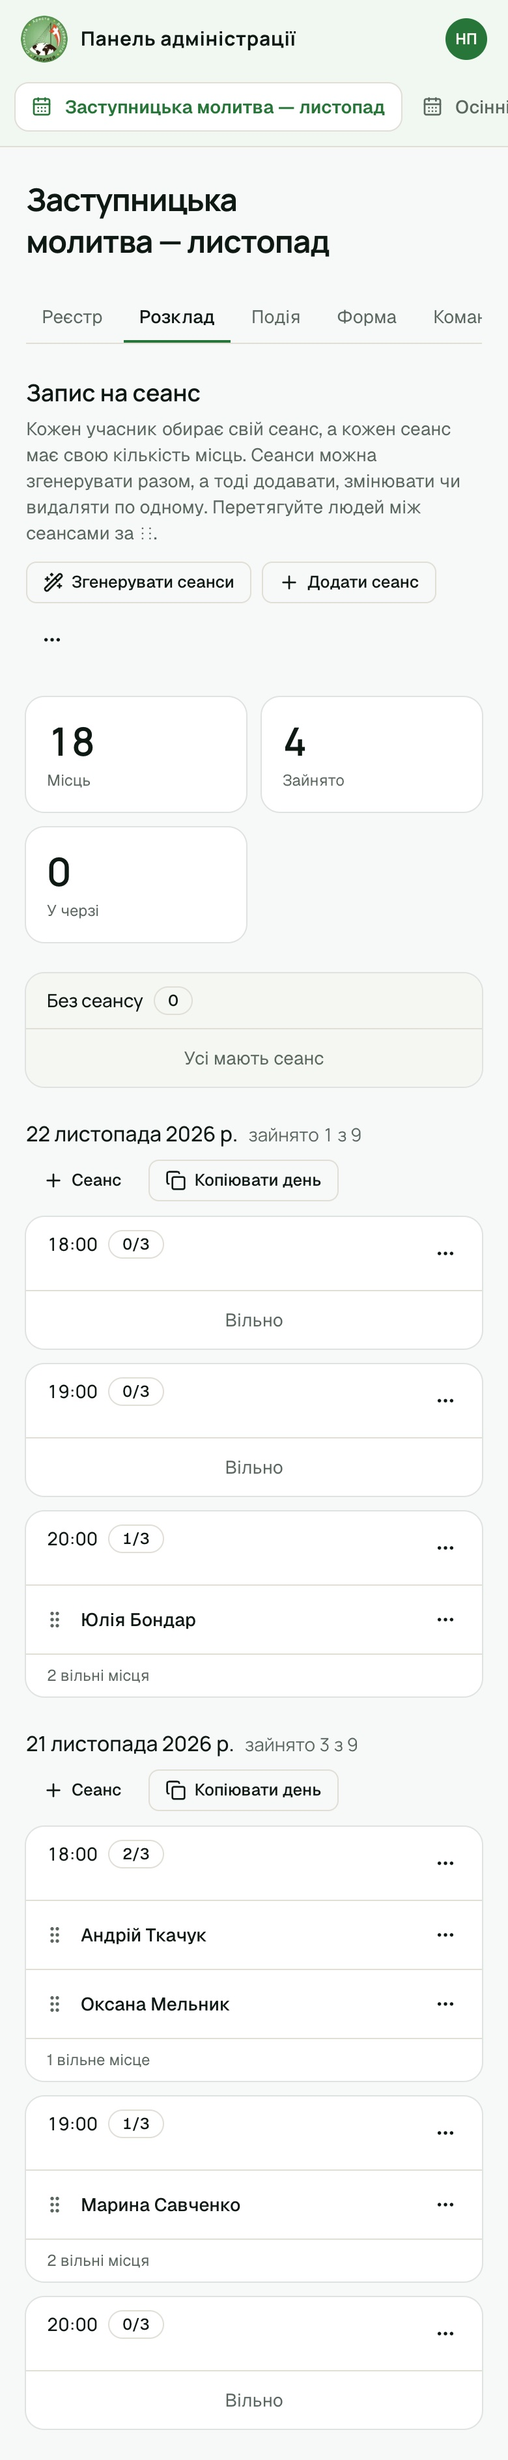
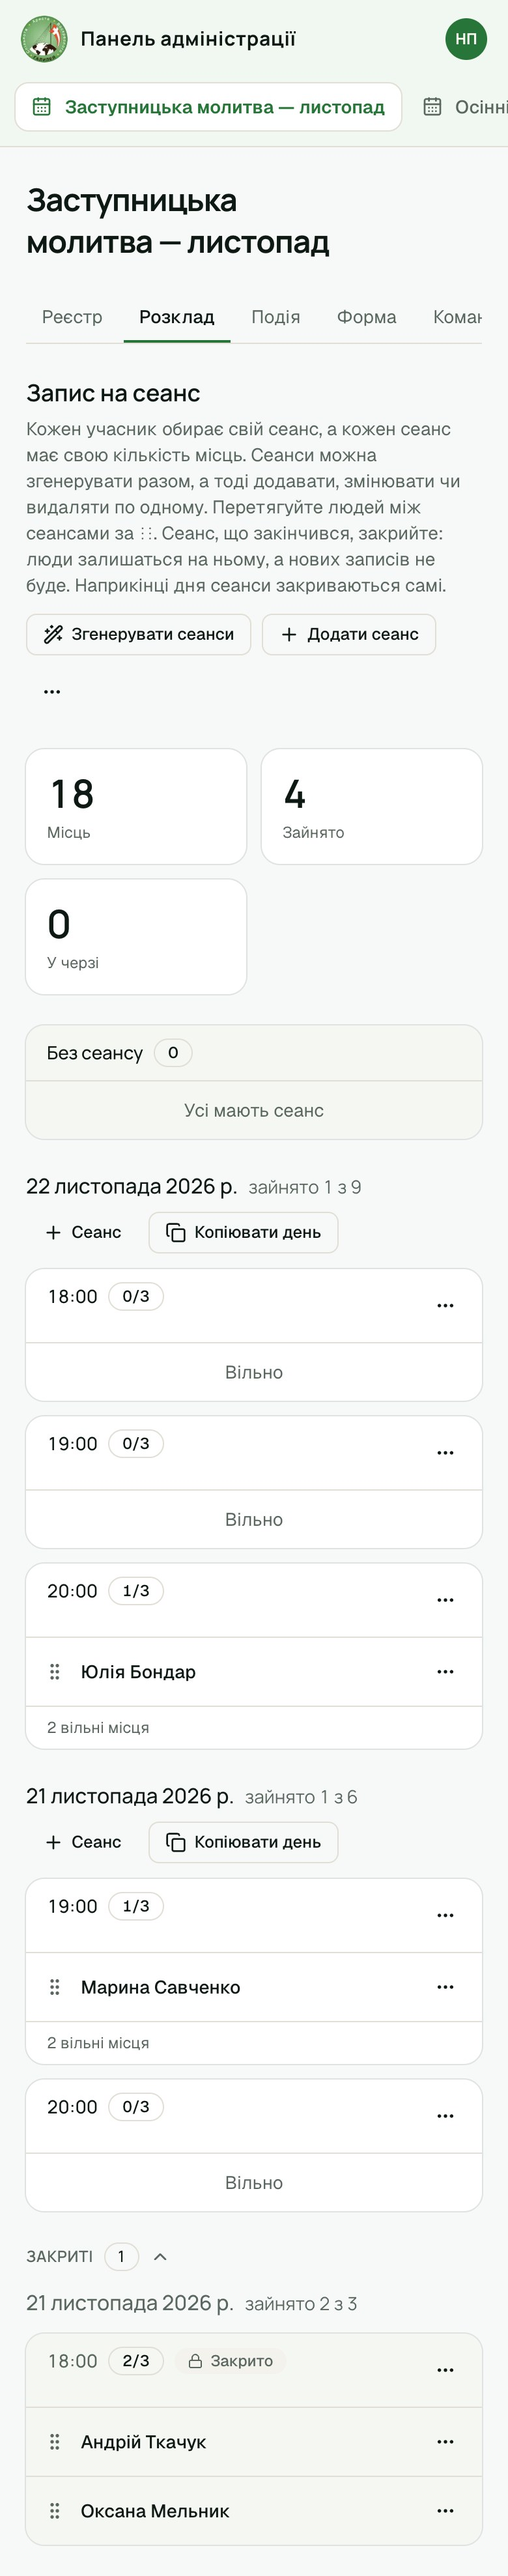
docs(schedule): closing sessions and cancelling registrations
The «Розклад» lesson follows web-app v2.83.0:
- new steps «Сеанс закінчився» (close, don't delete; sessions close by
  themselves at the end of the day), «Закриті» (the one folded section),
  and «Скасувати реєстрацію» (the site sends nothing; «Повернути» undoes);
- the quiz now asks what to do with a session that is over;
- «Дні» says what «Копіювати день» really does: copies who is on which
  session as text to forward, not the sessions to another day;
- fresh schedule.jpg plus two menu shots, hotspots re-measured.

diff --git a/app.js b/app.js
@@ -18,7 +18,9 @@ const SCREENS = {
   eventEdit: { src: 'img/event-edit.jpg', h: 4790, alt: 'Вкладка «Подія»' },
   builder: { src: 'img/builder.jpg', h: 8800, alt: 'Редактор форми' },
   groups: { src: 'img/groups.jpg', h: 2364, alt: 'Вкладка «Групи»' },
-  schedule: { src: 'img/schedule.jpg', h: 3776, alt: 'Вкладка «Розклад»' },
+  schedule: { src: 'img/schedule.jpg', h: 3954, alt: 'Вкладка «Розклад»' },
+  scheduleClose: { src: 'img/schedule-close.jpg', h: 1688, alt: 'Меню сеансу' },
+  scheduleCancel: { src: 'img/schedule-cancel.jpg', h: 1688, alt: 'Меню людини на сеансі' },
   team: { src: 'img/team.jpg', h: 1688, alt: 'Вкладка «Команда»' },
   teamAdd: { src: 'img/team-add.jpg', h: 1688, alt: 'Додати до команди' },
   checkin: { src: 'img/checkin.jpg', h: 1688, alt: 'Вкладка «Відвідуваність»' },
@@ -764,46 +766,64 @@ const MODULES = [
         steps: [
           {
             screen: 'schedule',
-            spot: [213, 894],
+            spot: [213, 974],
             title: 'Згенеруйте сеанси',
             text: 'Вкладка «Розклад» є лише в подіях із записом на сеанс (наприклад  "Заступницька молитва"). «Згенерувати сеанси» — день, час, тривалість і кількість місць.',
           },
           {
             screen: 'schedule',
-            spot: [535, 894],
+            spot: [535, 974],
             title: 'Або по одному',
             text: '«Додати сеанс» — якщо потрібен окремий час.',
           },
           {
             screen: 'schedule',
-            area: [40, 1070, 700, 376],
+            area: [40, 1150, 700, 376],
             title: 'Підсумок',
             text: 'Скільки всього місць, скільки зайнято і хто в черзі.',
           },
           {
             screen: 'schedule',
-            area: [40, 1494, 700, 174],
+            area: [40, 1574, 700, 174],
             title: 'Без сеансу',
             text: 'Ті, хто ще не має сеансу. Перетягніть людину в потрібний сеанс.',
           },
           {
             screen: 'schedule',
-            spot: [374, 1812],
+            spot: [374, 1892],
             title: 'Дні',
-            text: 'Найновіший день — угорі. «Копіювати день» — перенести ті самі сеанси на інший день.',
+            text: 'Найновіший день — угорі. «Копіювати день» копіює текстом, хто на якому сеансі (з телефонами), — щоб переслати тим, хто проводить сеанси.',
           },
           {
             screen: 'schedule',
-            area: [40, 3024, 700, 104],
+            area: [40, 2884, 700, 284],
             title: 'Хто на якому сеансі',
-            text: 'Під кожним сеансом — люди, які його обрали. «⋯» біля сеансу — змінити кількість місць чи видалити.',
+            text: 'Під кожним сеансом — люди, які його обрали. «⋯» біля сеансу — змінити кількість місць, закрити чи видалити.',
+          },
+          {
+            screen: 'scheduleClose',
+            spot: [512, 1246],
+            title: 'Сеанс закінчився',
+            text: 'Закрийте його: <b>«⋯» → «Закрити сеанс»</b>. Люди залишаться на сеансі, а нових записів на нього не буде. Не видаляйте — тоді всі його люди повернуться до «Без сеансу». Наприкінці дня сеанси закриваються самі.',
+          },
+          {
+            screen: 'schedule',
+            area: [40, 3442, 700, 464],
+            title: 'Закриті',
+            text: 'Закриті сеанси зібрані внизу й згорнуті — натисніть «Закриті», щоб побачити, хто на них був. Закрили помилково — «⋯» → «Відкрити сеанс знову» (до кінця дня сеансу).',
+          },
+          {
+            screen: 'scheduleCancel',
+            spot: [518, 1538],
+            title: 'Скасувати реєстрацію',
+            text: 'Людина не прийде? «⋯» біля неї → <b>«Скасувати реєстрацію…»</b>, і її місце звільниться. Сайт їй нічого не надсилає — повідомте самі. Скасували помилково — «Повернути» у сповіщенні або в «Реєстрі».',
           },
         ],
         quiz: {
-          q: 'Для яких подій є вкладка «Розклад»?',
-          options: ['Для всіх подій', 'Для подій із записом на сеанс — «Заступницька молитва»', 'Лише для курсів'],
+          q: 'Сеанс уже відбувся. Що з ним зробити?',
+          options: ['Видалити його', 'Закрити — люди залишаться на ньому', 'Перенести людей у «Без сеансу»'],
           answer: 1,
-          why: 'Сеанси — це спосіб запису саме для таких подій.',
+          why: 'Закритий сеанс зберігає своїх людей і більше не приймає записів. Видалений — повертає всіх до «Без сеансу».',
         },
       },
       {
